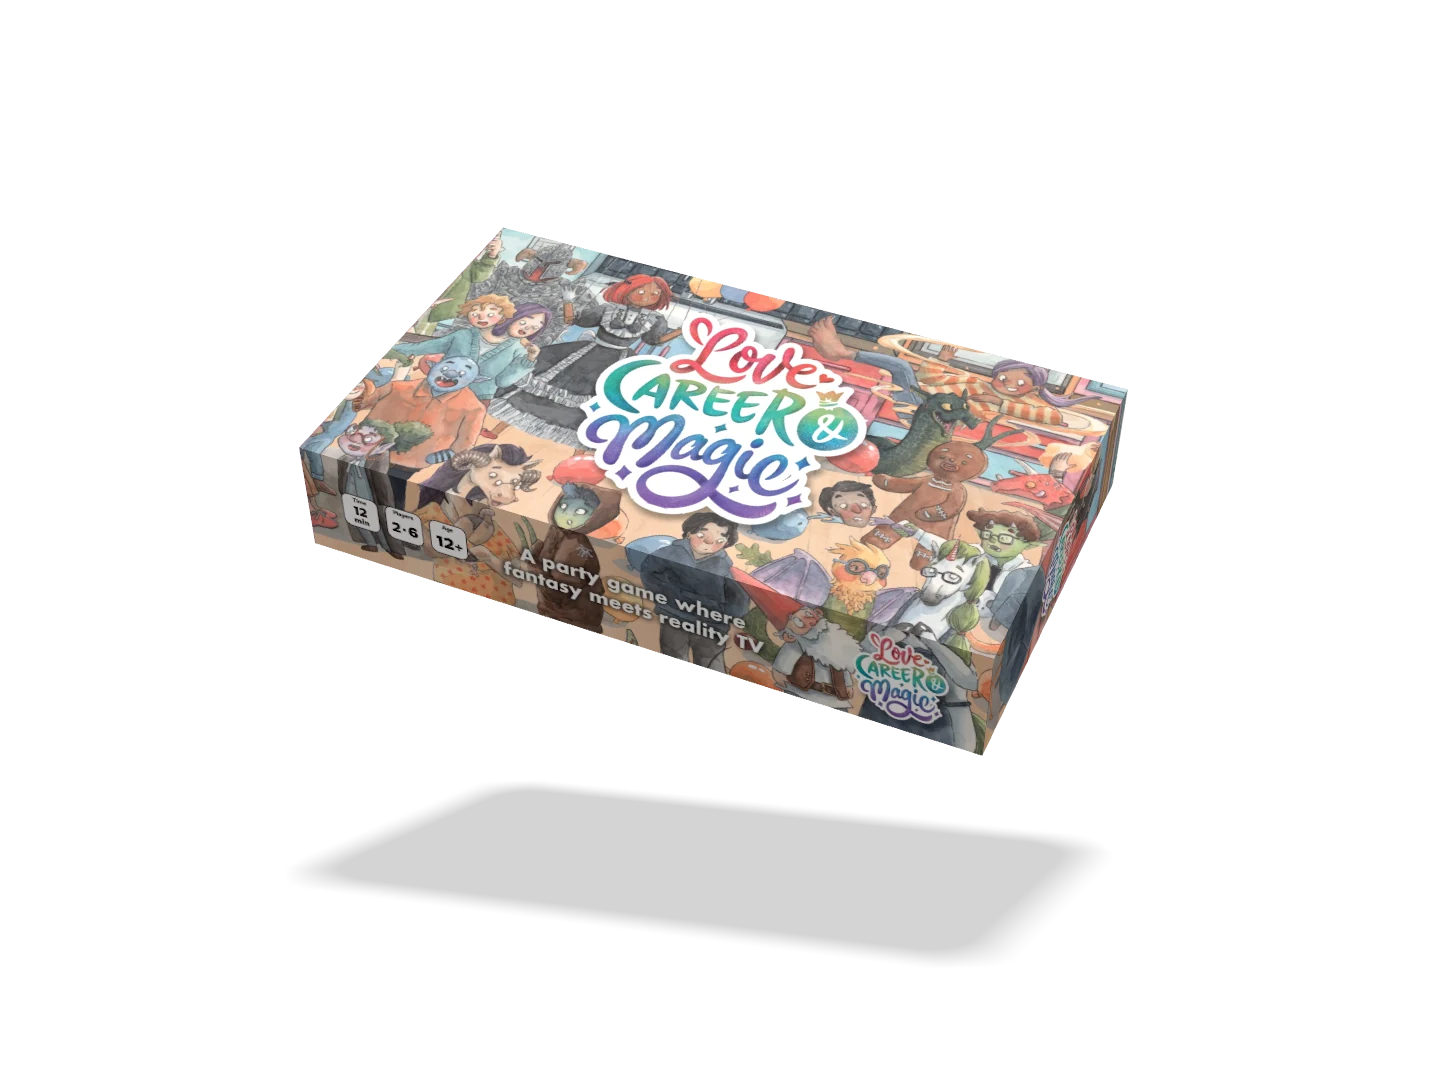
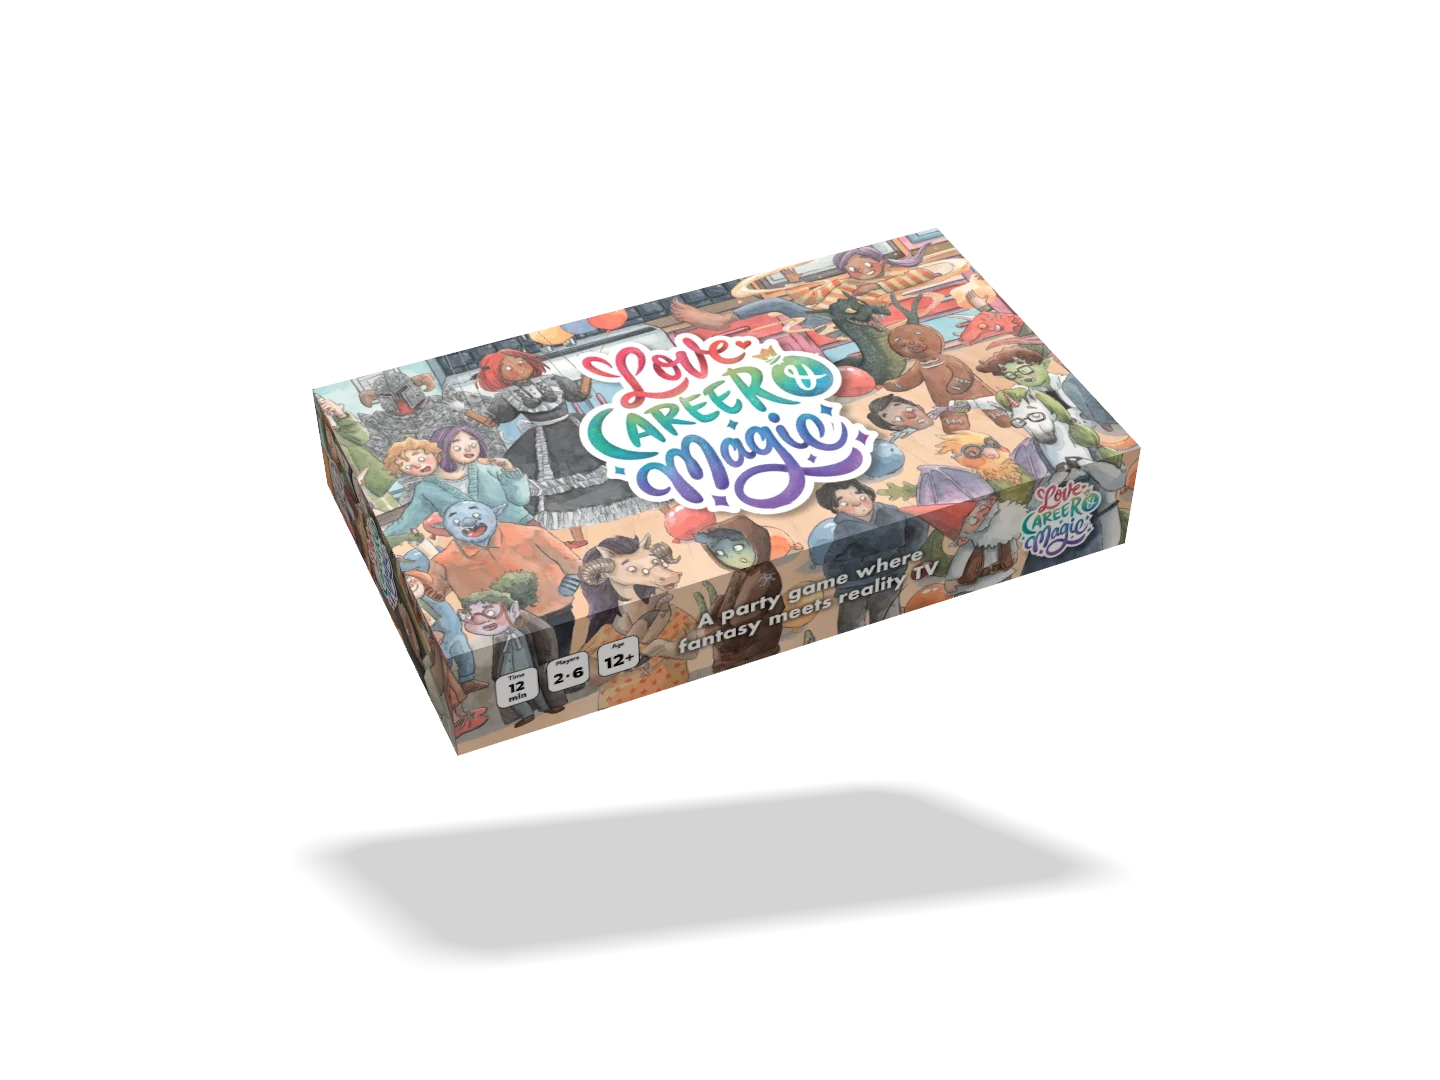
Box hero: the box faces right, Bizz moves left beside his bubble
- At rest the box is turned 24° the other way, to face right, so its back
  is lowest on the left. Bizz now peeks over that end, close to his
  shout and showing more of himself. The loading picture is re-rendered
  for the new pose.
- "12 minutes · 2–6 players · Ages 12+" sits in a pencil-drawn box like
  the shout, in the same lettering.

Claude-Session: https://claude.ai/code/session_01A7nLg5taiQxk8aHowA9Z88

diff --git a/src/components/BoxPreviewPage.tsx b/src/components/BoxPreviewPage.tsx
@@ -36,7 +36,7 @@ const BoxPreviewPage = () => {
             {/* Bizz says it: on wide screens he's to the right of the words, on phones below them */}
             <ShoutBubble
               side={isDesktop ? "right" : "bottom"}
-              aim={isDesktop ? 0.2 : 0.5}
+              aim={isDesktop ? 0.2 : 0.35}
               className={styles.bubble}
             >
               <h1 className={styles.title}>
@@ -45,13 +45,15 @@ const BoxPreviewPage = () => {
                 TV!
               </h1>
             </ShoutBubble>
-            <p className={styles.facts}>
-              <span>12 minutes</span>
-              <span aria-hidden="true">·</span>
-              <span>2–6 players</span>
-              <span aria-hidden="true">·</span>
-              <span>Ages 12+</span>
-            </p>
+            <ShoutBubble side="none" className={styles.factsBubble}>
+              <p className={styles.facts}>
+                <span>12 minutes</span>
+                <span aria-hidden="true">·</span>
+                <span>2–6 players</span>
+                <span aria-hidden="true">·</span>
+                <span>Ages 12+</span>
+              </p>
+            </ShoutBubble>
           </header>
           <div className={styles.ctas}>
             <BuyButton

diff --git a/src/components/utils/ShoutBubble.tsx b/src/components/utils/ShoutBubble.tsx
@@ -3,9 +3,10 @@ import type { ReactNode } from "react";
 import styles from "../../css/utils/shoutBubble.module.css";
 
 // A comic shout bubble, drawn in pencil: a box with a row of spikes along one side, the longest
-// pointing at whoever's shouting (`aim`, 0..1 along that side). It's drawn to fit its content.
+// pointing at whoever's shouting (`aim`, 0..1 along that side), or (side "none") just the box. It's
+// drawn to fit its content.
 interface ShoutBubbleProps {
-  side: "bottom" | "right";
+  side: "bottom" | "right" | "none";
   aim?: number;
   className?: string;
   children: ReactNode;
@@ -14,7 +15,8 @@ interface ShoutBubbleProps {
 // spike depths along the side, like the hand-drawn ones (the longest is placed at `aim`)
 const PATTERN = [0.62, 0.8, 0.55, 0.9, 0.68, 0.75, 0.58, 0.85, 0.66];
 
-function outline(side: "bottom" | "right", w: number, h: number, aim: number, depth: number) {
+function outline(side: "bottom" | "right" | "none", w: number, h: number, aim: number, depth: number) {
+  if (side === "none") return pencil([[0, 0], [w, 0], [w, h], [0, h]]);
   const along = side === "bottom" ? w : h;
   const n = Math.max(4, Math.round(along / 62));
   const a0 = along * 0.06, a1 = along * 0.94, step = (a1 - a0) / n;

diff --git a/src/css/pages/boxHero.module.css b/src/css/pages/boxHero.module.css
@@ -53,15 +53,20 @@
   margin: 0 0.25rem 50px;
 }
 
+.head .factsBubble {
+  display: inline-block;
+  padding: 0.55rem 1.1rem;
+}
+
 .facts {
   display: flex;
   justify-content: center;
-  gap: 0.6rem;
-  margin: 0.6rem 0 0;
-  font-family: "Roboto Regular", sans-serif;
-  font-size: 0.95rem;
-  letter-spacing: 0.04em;
-  color: rgba(50, 50, 50, 0.7);
+  gap: 0.5rem;
+  margin: 0;
+  font-family: "Rowdies-Bold", sans-serif;
+  font-size: clamp(0.8rem, 3.6vw, 1rem);
+  color: #323232;
+  white-space: nowrap;
 }
 
 .stageWrap {
@@ -75,8 +80,8 @@
    pops up while the box sits at rest, ducks when it's turned or opened, and now and then wiggles. */
 .bizz {
   position: absolute;
-  left: 40%;
-  bottom: 65%;
+  left: 24%;
+  bottom: 63%;
   width: 22%;
   transform: scaleX(-1); /* facing his words */
   transform-origin: 50% 100%;
@@ -200,9 +205,7 @@
   }
 
   .facts {
-    justify-content: flex-start;
-    margin-top: 1rem;
-    font-size: 1.05rem;
+    font-size: 1.1rem;
   }
 
   .ctas {

diff --git a/src/components/utils/boxViewer3d.ts b/src/components/utils/boxViewer3d.ts
@@ -31,8 +31,8 @@ interface MountOptions {
   onFail: () => void;
 }
 
-// at rest it lies lid up, turned 24° and tipped 35° toward you, like the product shots
-const REST: [number, number] = [-0.42, 0.61];
+// at rest it lies lid up, turned 24° to face right and tipped 35° toward you, like the product shots
+const REST: [number, number] = [0.42, 0.61];
 // how far back the camera stands for the box at any angle on a 4:3 stage, and where it looks, so the
 // floor's shadow is in frame too (the floor just below the box's reach)
 const DIST = 3.085, AIM_Y = -0.105, FLOOR = -0.61;
